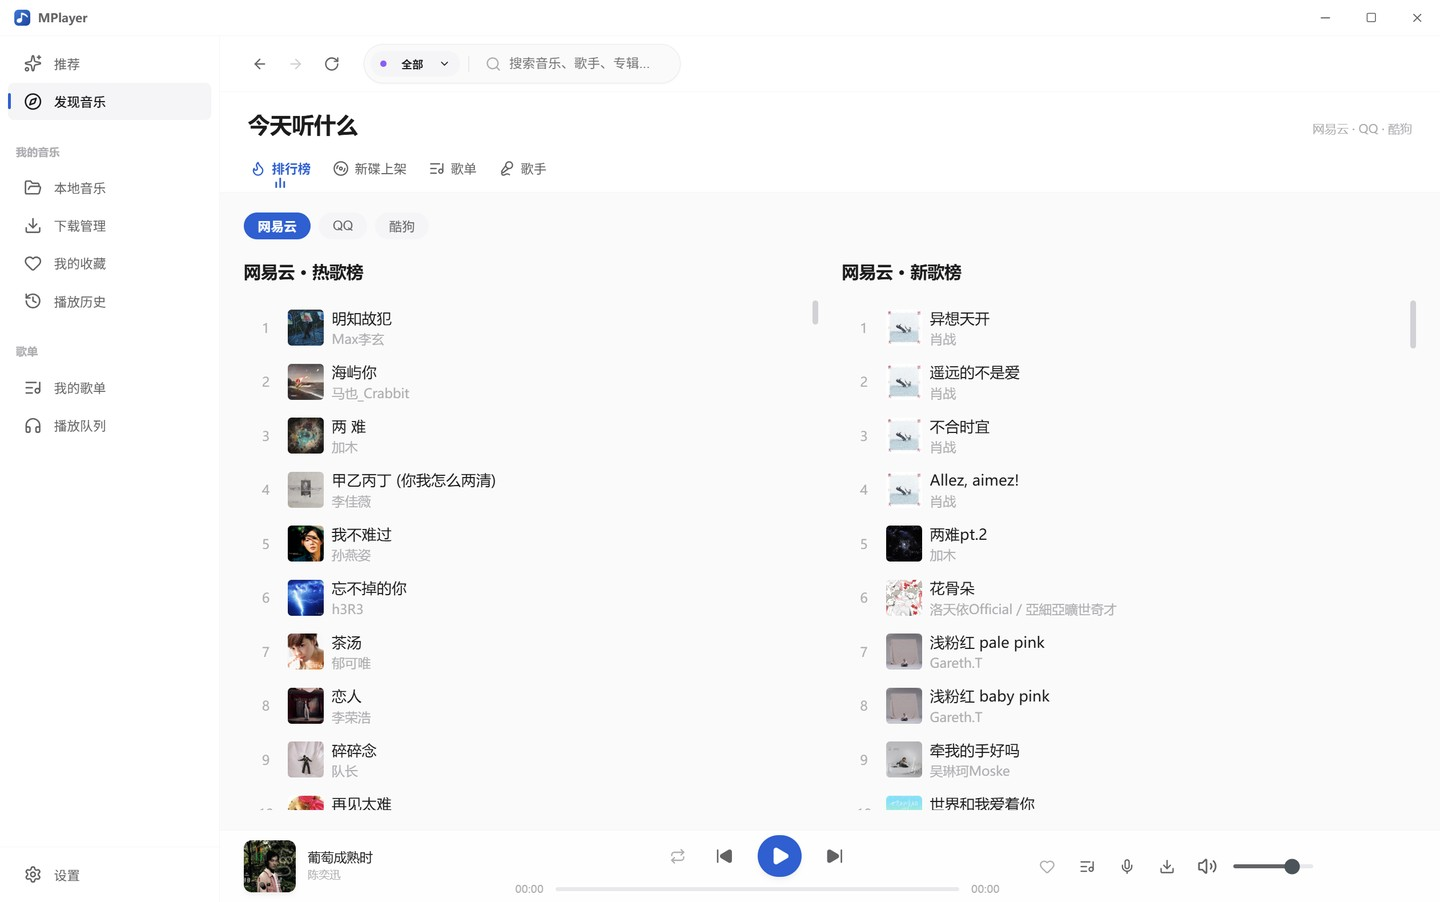
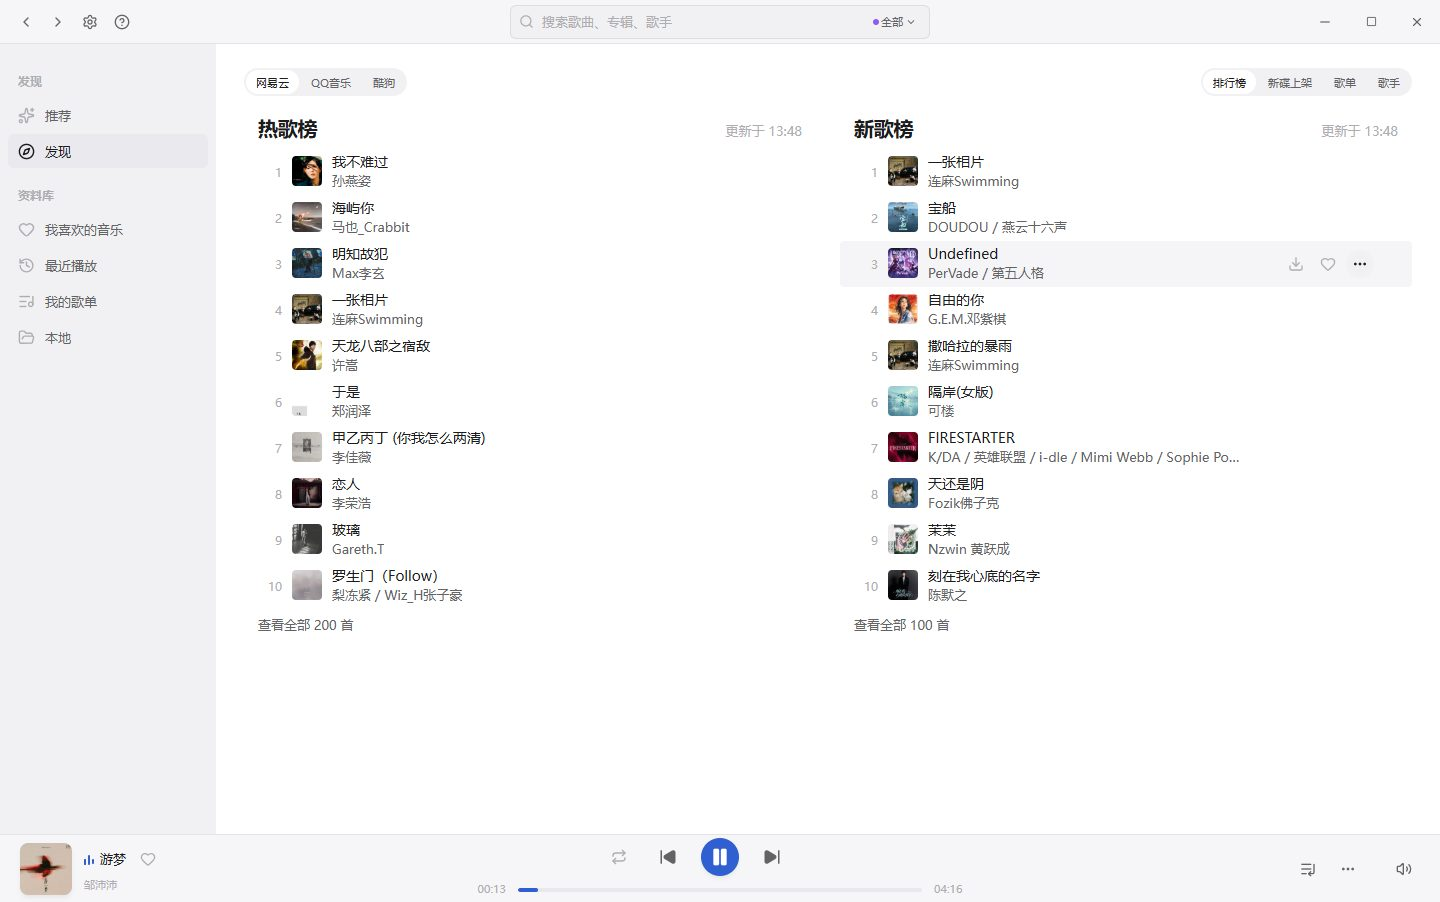
docs: README 桌面截图换成 1.9.0 新 UI
1.9.0 的 UI 重构（#691）没有同步 README，库里四张桌面截图还是 2026-10-01 的旧 IA（设置在侧栏底部、品牌蓝播放键、侧栏五个分组）。改用真实 Electron 1440×902 重拍：侧栏 发现/资料库 两段、标题栏唯一返回与居中搜索、设置页外观分段（无本机路径外泄）。截图由 e2e/lib/shots.mjs 驱动生成，产物不入库，只落 docs/assets/readme。中英文 alt 文案同步。

diff --git a/README.en.md b/README.en.md
@@ -84,13 +84,13 @@ The desktop app checks for updates on launch and silently downloads a new versio
 ### Desktop (Electron)
 
 <p align="center">
-  <img src="docs/assets/readme/desktop-recommend.jpg" width="92%" alt="Recommendations" />
+  <img src="docs/assets/readme/desktop-recommend.jpg" width="92%" alt="Recommendations · today's picks and playlists" />
 </p>
 
 <p align="center">
   <img src="docs/assets/readme/desktop-discover.jpg" width="31%" alt="Discover · multi-source charts" />
   <img src="docs/assets/readme/desktop-search.jpg" width="31%" alt="Search · version grouping" />
-  <img src="docs/assets/readme/desktop-settings.jpg" width="31%" alt="Settings · updates and about" />
+  <img src="docs/assets/readme/desktop-settings.jpg" width="31%" alt="Settings · appearance (theme / density / material)" />
 </p>
 
 ### Mobile (Expo / React Native)

diff --git a/README.md b/README.md
@@ -84,13 +84,13 @@
 ### 桌面端（Electron）
 
 <p align="center">
-  <img src="docs/assets/readme/desktop-recommend.jpg" width="92%" alt="推荐" />
+  <img src="docs/assets/readme/desktop-recommend.jpg" width="92%" alt="推荐 · 今日主打与推荐歌单" />
 </p>
 
 <p align="center">
-  <img src="docs/assets/readme/desktop-discover.jpg" width="31%" alt="发现音乐 · 多源榜单" />
+  <img src="docs/assets/readme/desktop-discover.jpg" width="31%" alt="发现 · 多源热榜" />
   <img src="docs/assets/readme/desktop-search.jpg" width="31%" alt="搜索 · 版本聚合" />
-  <img src="docs/assets/readme/desktop-settings.jpg" width="31%" alt="设置 · 更新与关于" />
+  <img src="docs/assets/readme/desktop-settings.jpg" width="31%" alt="设置 · 外观（主题 / 密度 / 材质）" />
 </p>
 
 ### 移动端（Expo / React Native）
